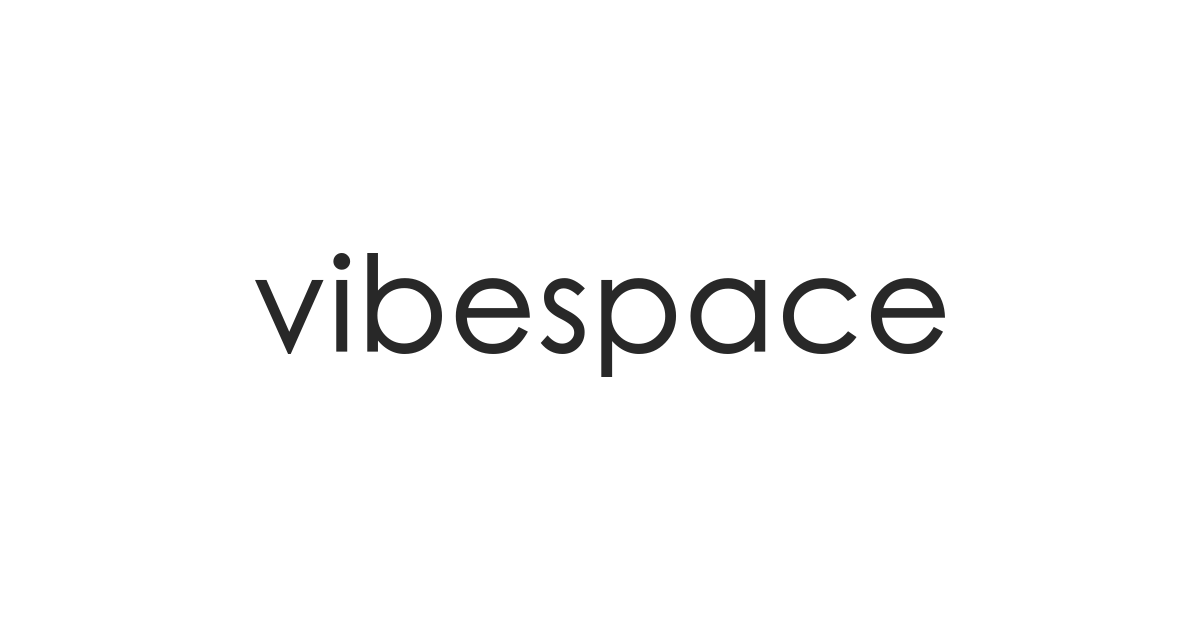
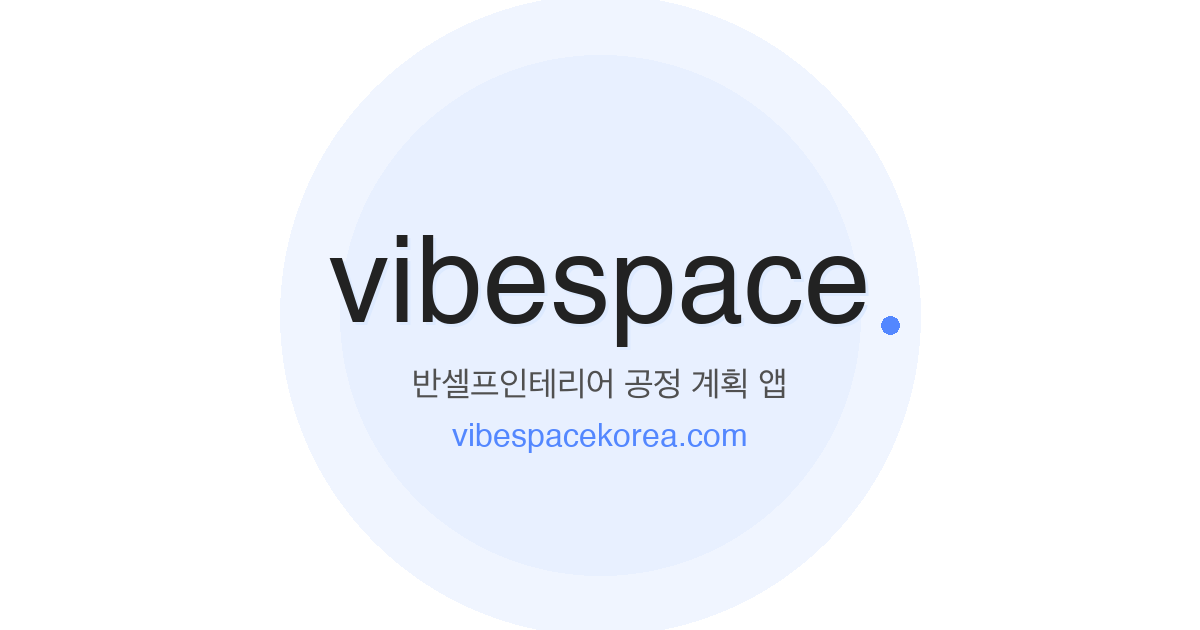
fix: 메인 카피 문구 변경 및 OG 이미지 개선

Changed region(s): [[0.2158, 0.3619, 0.8017, 0.6333], [0.37, 0.6635, 0.6167, 0.7238]]

diff --git a/landing.html b/landing.html
@@ -18,7 +18,8 @@
 <meta property="og:title" content="Vibespace — 반셀프인테리어 플래닝 앱">
 <meta property="og:description" content="철거부터 마루·가구까지 12가지 공정을 한눈에. 예산·업체·일정을 하나의 앱에서 무료로 관리하세요.">
 <meta property="og:url" content="https://vibespacekorea.com/landing.html">
-<meta property="og:image" content="https://vibespacekorea.com/og-image.svg">
+<meta property="og:image" content="https://vibespacekorea.com/og-image.png">
+<meta property="og:image:type" content="image/png">
 <meta property="og:image:width" content="1200">
 <meta property="og:image:height" content="630">
 <meta property="og:image:alt" content="Vibespace 반셀프인테리어 플래닝 앱">
@@ -28,7 +29,7 @@
 <meta name="twitter:card" content="summary_large_image">
 <meta name="twitter:title" content="Vibespace — 반셀프인테리어 플래닝 앱">
 <meta name="twitter:description" content="철거부터 마루·가구까지 12가지 공정을 한눈에. 예산·업체·일정을 하나의 앱에서 무료로 관리하세요.">
-<meta name="twitter:image" content="https://vibespacekorea.com/og-image.svg">
+<meta name="twitter:image" content="https://vibespacekorea.com/og-image.png">
 
 <!-- ===== Google Search Console ===== -->
 <meta name="google-site-verification" content="PZKa9_ObhMV1FKOSCWuObgbPm0oHLtZ-dCoAv72pIzE">

diff --git a/index.html b/index.html
@@ -1602,7 +1602,7 @@ button, input, textarea, select { font-family:var(--font); }
     <img id="landing-brand-logo" class="landing-logo-img" alt="Brand Logo">
     <div class="landing-logo" id="landing-text-logo">Vibe<span>space</span></div>
     <div class="landing-divider"></div>
-    <div class="landing-main-copy">극J들의 행복한 인테리어 여정.</div>
+    <div class="landing-main-copy">반셀프 인테리어가 막막한 분들을 위한 플래닝 툴.</div>
   </div>
 
   <!-- 하단 버튼 -->
